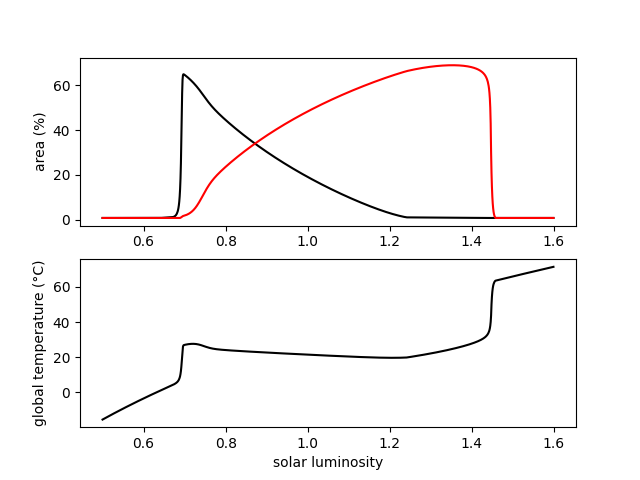
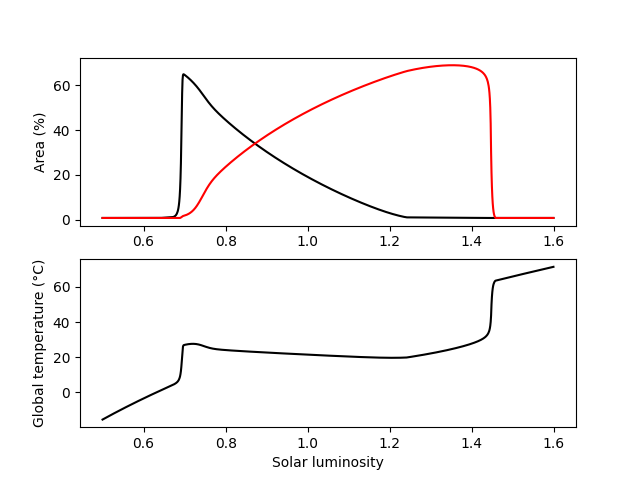
buioui

Changed region(s): [[0.0312, 0.5625, 0.0938, 0.9062], [0.4062, 0.9375, 0.5938, 0.9688]]

diff --git a/DaisyWorld.py b/DaisyWorld.py
@@ -38,11 +38,11 @@ if __name__ == '__main__':
         temp_black = (R*lum*S/sigma*(albedo_planet-albedo_black) + temp_planet**4)**(0.25)
         temp_white = (R*lum*S/sigma*(albedo_planet-albedo_white) + temp_planet**4)**(0.25)
 
-        if (temp_black >= temp_min and temp_black <= temp_max and area_black >= 0.01):
+        if (temp_black >= temp_min and temp_black <= temp_max):
            birth_black = 1 - 0.003265*(temp_opt-temp_black)**2
         else:
             birth_black = 0
-        if (temp_white >= temp_min and temp_white <= temp_max and area_white >= 0.01):
+        if (temp_white >= temp_min and temp_white <= temp_max):
             birth_white = 1 - 0.003265*(temp_opt-temp_white)**2
         else:
             birth_white = 0.0
@@ -67,9 +67,9 @@ if __name__ == '__main__':
     fig, ax = plt.subplots(2, 1)
     ax[0].plot(luminosity, 100*area_black_a, color='black')
     ax[0].plot(luminosity, 100*area_white_a, color='red')
-    ax[0].set_ylabel('area (%)')
+    ax[0].set_ylabel('Area (%)')
 
     ax[1].plot(luminosity, temp_planet_a-273.15, color='black')
-    ax[1].set_xlabel('solar luminosity')
-    ax[1].set_ylabel('global temperature (°C)')
+    ax[1].set_xlabel('Solar luminosity')
+    ax[1].set_ylabel('Global temperature (°C)')
     plt.savefig('DaisyWorld.png')
